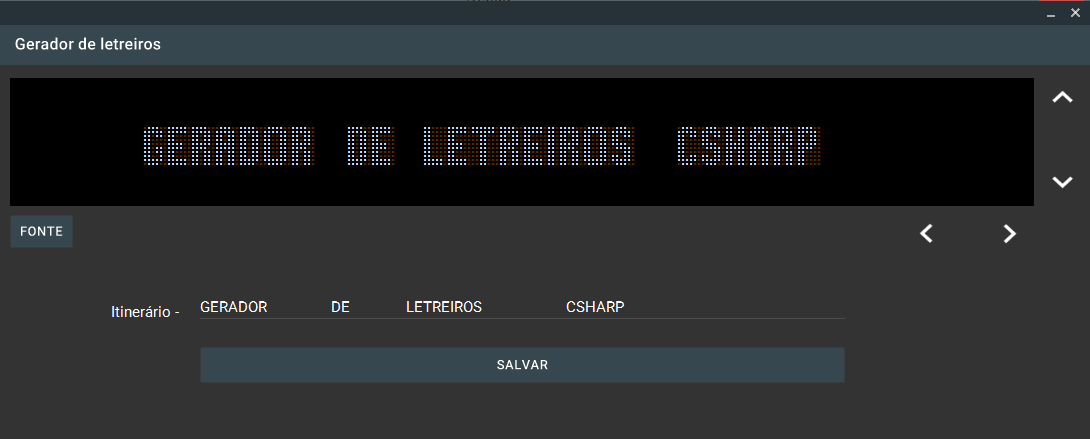
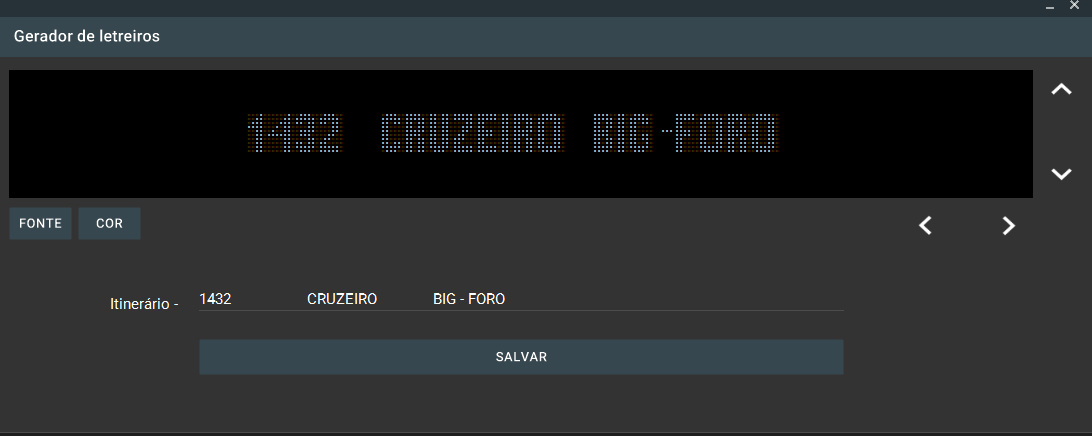
Sistema de atualizações e cor do texto

diff --git a/GeradorDeLetreiros/Frm_Principal.Designer.cs b/GeradorDeLetreiros/Frm_Principal.Designer.cs
@@ -41,6 +41,8 @@
             this.pic_Lef = new System.Windows.Forms.PictureBox();
             this.Btm_Fonte = new MaterialSkin.Controls.MaterialRaisedButton();
             this.panelLetreiro = new System.Windows.Forms.Panel();
+            this.Btm_Cor = new MaterialSkin.Controls.MaterialRaisedButton();
+            this.colorDialog1 = new System.Windows.Forms.ColorDialog();
             ((System.ComponentModel.ISupportInitialize)(this.pictureBoxLetreiro)).BeginInit();
             ((System.ComponentModel.ISupportInitialize)(this.pic_up)).BeginInit();
             ((System.ComponentModel.ISupportInitialize)(this.pic_down)).BeginInit();
@@ -53,7 +55,7 @@
             // 
             this.Txt_Entrada.Depth = 0;
             this.Txt_Entrada.Hint = "";
-            this.Txt_Entrada.Location = new System.Drawing.Point(202, 296);
+            this.Txt_Entrada.Location = new System.Drawing.Point(214, 296);
             this.Txt_Entrada.MouseState = MaterialSkin.MouseState.HOVER;
             this.Txt_Entrada.Name = "Txt_Entrada";
             this.Txt_Entrada.PasswordChar = '\0';
@@ -74,15 +76,15 @@
             this.materialLabel1.Location = new System.Drawing.Point(109, 301);
             this.materialLabel1.MouseState = MaterialSkin.MouseState.HOVER;
             this.materialLabel1.Name = "materialLabel1";
-            this.materialLabel1.Size = new System.Drawing.Size(81, 19);
+            this.materialLabel1.Size = new System.Drawing.Size(69, 19);
             this.materialLabel1.TabIndex = 0;
-            this.materialLabel1.Text = "Itinerário - ";
+            this.materialLabel1.Text = "Itinerário";
             // 
             // Btm_GerarLetreiro
             // 
             this.Btm_GerarLetreiro.Cursor = System.Windows.Forms.Cursors.Hand;
             this.Btm_GerarLetreiro.Depth = 0;
-            this.Btm_GerarLetreiro.Location = new System.Drawing.Point(202, 346);
+            this.Btm_GerarLetreiro.Location = new System.Drawing.Point(214, 346);
             this.Btm_GerarLetreiro.MouseState = MaterialSkin.MouseState.HOVER;
             this.Btm_GerarLetreiro.Name = "Btm_GerarLetreiro";
             this.Btm_GerarLetreiro.Primary = true;
@@ -193,11 +195,26 @@
             this.panelLetreiro.Size = new System.Drawing.Size(1025, 131);
             this.panelLetreiro.TabIndex = 10;
             // 
+            // Btm_Cor
+            // 
+            this.Btm_Cor.Cursor = System.Windows.Forms.Cursors.Hand;
+            this.Btm_Cor.Depth = 0;
+            this.Btm_Cor.Location = new System.Drawing.Point(81, 214);
+            this.Btm_Cor.MouseState = MaterialSkin.MouseState.HOVER;
+            this.Btm_Cor.Name = "Btm_Cor";
+            this.Btm_Cor.Primary = true;
+            this.Btm_Cor.Size = new System.Drawing.Size(63, 33);
+            this.Btm_Cor.TabIndex = 11;
+            this.Btm_Cor.Text = "Cor";
+            this.Btm_Cor.UseVisualStyleBackColor = true;
+            this.Btm_Cor.Click += new System.EventHandler(this.Btm_Cor_Click);
+            // 
             // Frm_Principal
             // 
             this.AutoScaleDimensions = new System.Drawing.SizeF(6F, 13F);
             this.AutoScaleMode = System.Windows.Forms.AutoScaleMode.Font;
             this.ClientSize = new System.Drawing.Size(1097, 440);
+            this.Controls.Add(this.Btm_Cor);
             this.Controls.Add(this.label_Itinerario);
             this.Controls.Add(this.panelLetreiro);
             this.Controls.Add(this.pic_Lef);
@@ -214,6 +231,7 @@
             this.StartPosition = System.Windows.Forms.FormStartPosition.CenterScreen;
             this.Text = "Gerador de letreiros";
             this.TopMost = true;
+            this.Load += new System.EventHandler(this.Frm_Principal_Load);
             ((System.ComponentModel.ISupportInitialize)(this.pictureBoxLetreiro)).EndInit();
             ((System.ComponentModel.ISupportInitialize)(this.pic_up)).EndInit();
             ((System.ComponentModel.ISupportInitialize)(this.pic_down)).EndInit();
@@ -239,6 +257,8 @@
         private System.Windows.Forms.PictureBox pic_Lef;
         private MaterialSkin.Controls.MaterialRaisedButton Btm_Fonte;
         private System.Windows.Forms.Panel panelLetreiro;
+        private MaterialSkin.Controls.MaterialRaisedButton Btm_Cor;
+        private System.Windows.Forms.ColorDialog colorDialog1;
 
     }
 }

diff --git a/GeradorDeLetreiros/Atualizacoes.cs b/GeradorDeLetreiros/Atualizacoes.cs
@@ -1,0 +1,68 @@
+using System;
+using System.Collections.Generic;
+using System.Linq;
+using System.Net;
+using System.Text;
+using System.Threading.Tasks;
+using System.Windows.Forms;
+
+namespace GeradorDeLetreiros
+{
+    internal static class Atualizacoes
+    {
+
+        private static string EfetuarRequisicaoServidor()
+        {
+
+            try
+            {
+                WebClient wc = new WebClient();
+                return wc.DownloadString("http://cristianoprogramador.com/Letreiros.txt");
+            }
+            catch
+            {
+                return "Erro";
+            }
+            
+        }
+
+        private static string obterVersao(string requisicao)
+        {
+            String[] linha = requisicao.Split(';');
+
+            return linha[0];
+        }
+
+        public static string ObterLinkUltimaVersao()
+        {
+            string requisicao = EfetuarRequisicaoServidor();
+
+            String[] linha = requisicao.Split(';');
+
+            return linha[1];
+        }
+
+        internal static bool VerificarAtualizacao()
+        {
+            string informacoesVersao = EfetuarRequisicaoServidor();
+
+            if ( informacoesVersao != "Erro")
+            {
+                string versaoServidor = obterVersao(informacoesVersao);
+
+                if (versaoServidor != Application.ProductVersion)
+                {
+                    return true;
+                }
+                else
+                {
+                    return false;
+                }
+            }
+            else
+            {
+                return false;
+            }
+        }
+    }
+}

diff --git a/GeradorDeLetreiros/Frm_Principal.cs b/GeradorDeLetreiros/Frm_Principal.cs
@@ -1,6 +1,7 @@
 using MaterialSkin;
 using MaterialSkin.Controls;
 using System;
+using System.Diagnostics;
 using System.Drawing;
 using System.Drawing.Imaging;
 using System.Windows.Forms;
@@ -35,8 +36,13 @@ namespace GeradorDeLetreiros
         private void Btm_Fonte_Click(object sender, EventArgs e)
         {
             fontDialog1.ShowDialog();
-
             label_Itinerario.Font = fontDialog1.Font;
+        }
+
+        private void Btm_Cor_Click(object sender, EventArgs e)
+        {
+            colorDialog1.ShowDialog();
+            label_Itinerario.ForeColor = colorDialog1.Color;
         }
 
         private void Btm_Alinhar_Click(object sender, EventArgs e)
@@ -94,5 +100,24 @@ namespace GeradorDeLetreiros
                 MessageBox.Show("Escolha um local para salvar seu arquivo", "Informação", MessageBoxButtons.OK, MessageBoxIcon.Exclamation);
             }
         }
+
+        private void Frm_Principal_Load(object sender, EventArgs e)
+        {
+            if (Atualizacoes.VerificarAtualizacao())
+            {
+                DialogResult dr = new DialogResult();
+                    
+                 dr = MessageBox.Show("Uma nova atualizaão do software foi encontrada, deseja atualiza-lo?","Pergunta"
+                    ,MessageBoxButtons.YesNo,MessageBoxIcon.Question);
+
+                if(dr == System.Windows.Forms.DialogResult.Yes) 
+                {
+                    Process.Start(Atualizacoes.ObterLinkUltimaVersao());
+
+                    Application.Exit();
+                }
+            }
+        }
+
     }
 }

diff --git a/GeradorDeLetreiros/Properties/AssemblyInfo.cs b/GeradorDeLetreiros/Properties/AssemblyInfo.cs
@@ -5,8 +5,8 @@ using System.Runtime.InteropServices;
 // General Information about an assembly is controlled through the following 
 // set of attributes. Change these attribute values to modify the information
 // associated with an assembly.
-[assembly: AssemblyTitle("GeradorDeLetreiros")]
-[assembly: AssemblyDescription("")]
+[assembly: AssemblyTitle("Gerador De Letreiros")]
+[assembly: AssemblyDescription("Gerador de letreiros para o jogo - Proton Bus Simulator")]
 [assembly: AssemblyConfiguration("")]
 [assembly: AssemblyCompany("Cristiano Cunha")]
 [assembly: AssemblyProduct("GeradorDeLetreiros")]
